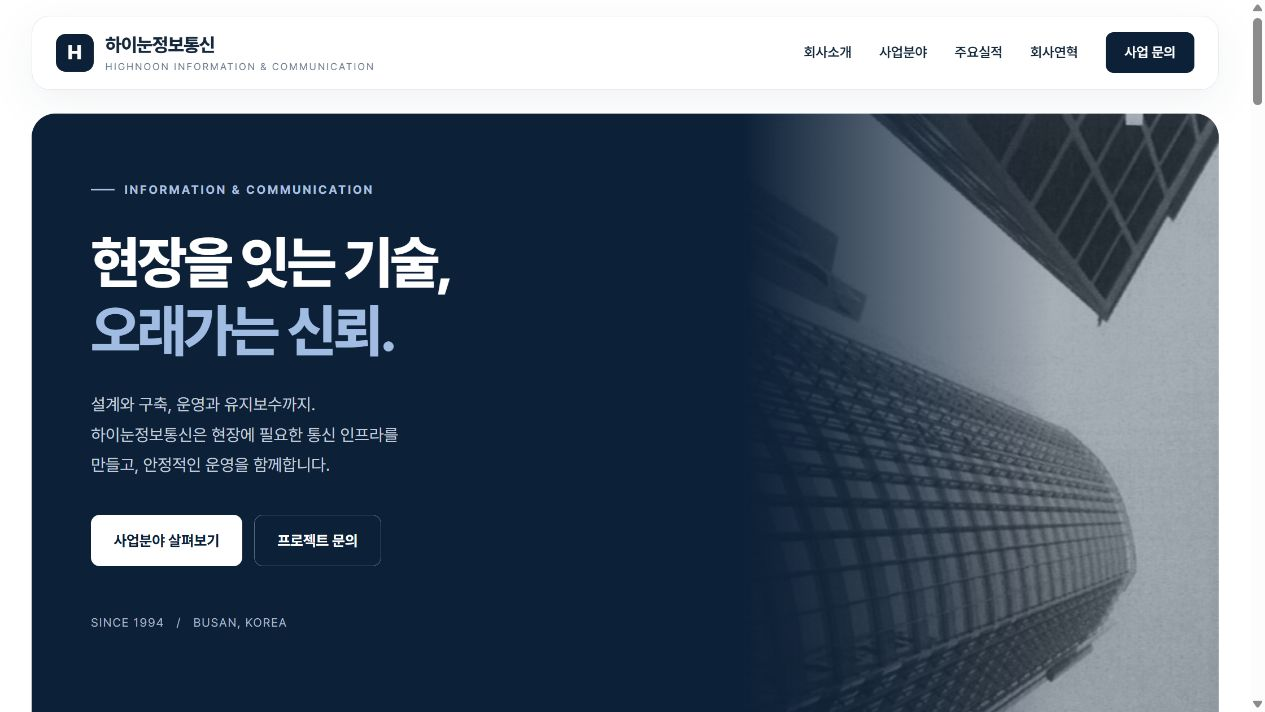
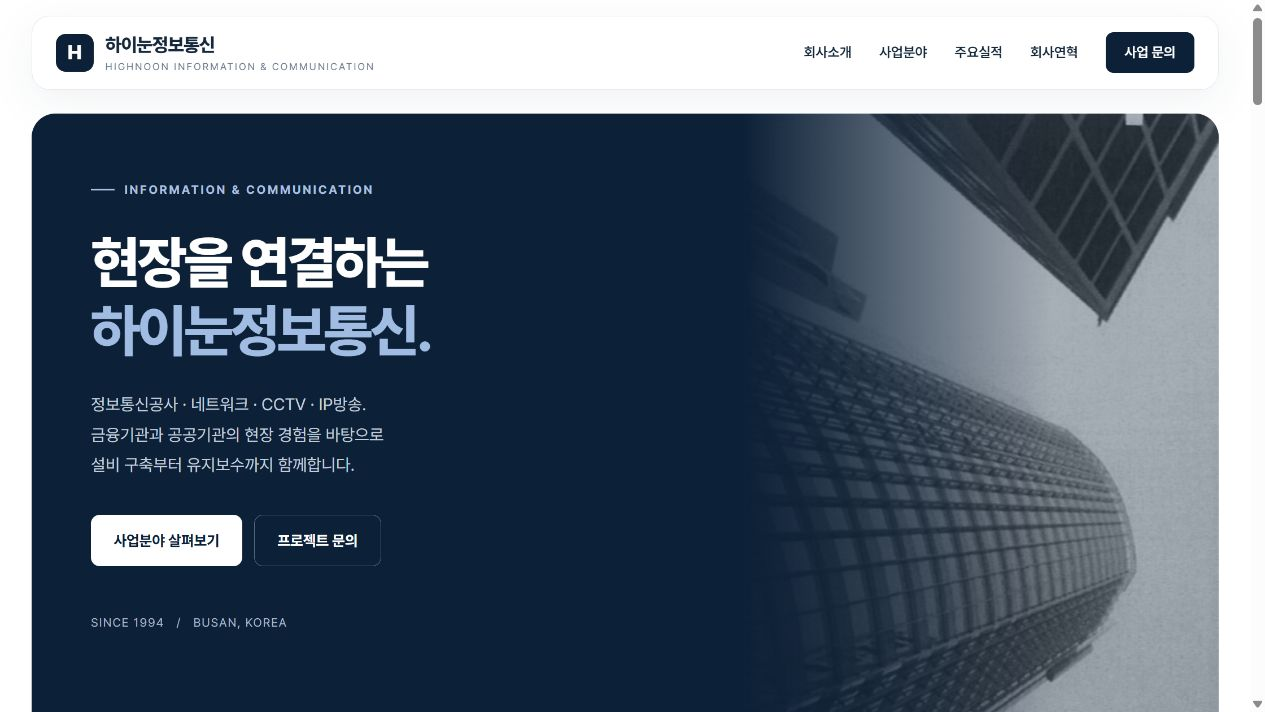
Publish revised Highnoon homepage without external company references

Changed region(s): [[0.0617, 0.309, 0.37, 0.5253], [0.0617, 0.5562, 0.3083, 0.6798]]

diff --git a/index.html b/index.html
@@ -5,7 +5,7 @@
   <meta name="viewport" content="width=device-width, initial-scale=1">
   <meta name="description" content="하이눈정보통신은 정보통신공사, CCTV, 네트워크, IP방송과 통신시설 유지보수를 수행합니다. 부산에 기반을 둔 정보통신 전문기업을 소개합니다.">
   <meta name="theme-color" content="#0c2037">
-  <title>하이눈정보통신 | 현장을 잇는 기술, 오래가는 신뢰</title>
+  <title>하이눈정보통신 | 정보통신공사 · 네트워크 · CCTV</title>
   <link rel="stylesheet" href="https://cdn.jsdelivr.net/gh/orioncactus/pretendard/dist/web/static/pretendard.min.css">
   <script src="https://cdn.tailwindcss.com"></script>
   <script src="https://code.iconify.design/iconify-icon/2.3.0/iconify-icon.min.js"></script>
@@ -33,13 +33,13 @@
   <main id="main">
     <div class="wrap">
       <section class="hero" aria-labelledby="hero-title">
-        <div class="hero-copy"><div class="eyebrow">INFORMATION & COMMUNICATION</div><h1 id="hero-title">현장을 잇는 기술,<br><span>오래가는 신뢰.</span></h1><p class="hero-desc">설계와 구축, 운영과 유지보수까지.<br>하이눈정보통신은 현장에 필요한 통신 인프라를<br>만들고, 안정적인 운영을 함께합니다.</p><div class="hero-actions"><a class="btn btn-light" href="#business">사업분야 살펴보기</a><a class="btn btn-outline" href="#contact">프로젝트 문의</a></div><p class="hero-foot">SINCE 1994 &nbsp; / &nbsp; BUSAN, KOREA</p></div>
-        <div class="hero-visual"><img src="assets/architecture.jpg" alt="회사 지명원에 수록된 건축 이미지" decoding="async" fetchpriority="high"><div class="visual-label"><strong>Built on trust.</strong>기술로 연결하는 일상</div></div>
+        <div class="hero-copy"><div class="eyebrow">INFORMATION & COMMUNICATION</div><h1 id="hero-title">현장을 연결하는<br><span>하이눈정보통신.</span></h1><p class="hero-desc">정보통신공사 · 네트워크 · CCTV · IP방송.<br>금융기관과 공공기관의 현장 경험을 바탕으로<br>설비 구축부터 유지보수까지 함께합니다.</p><div class="hero-actions"><a class="btn btn-light" href="#business">사업분야 살펴보기</a><a class="btn btn-outline" href="#contact">프로젝트 문의</a></div><p class="hero-foot">SINCE 1994 &nbsp; / &nbsp; BUSAN, KOREA</p></div>
+        <div class="hero-visual"><img src="assets/architecture.jpg" alt="회사 지명원에 수록된 건축 이미지" decoding="async" fetchpriority="high"><div class="visual-label"><strong>HIGHNOON ICT</strong>기술로 연결하는 일상</div></div>
       </section>
       <div class="trust" aria-label="기업 핵심 정보"><div class="trust-item"><strong>1994.12</strong><span>기업 설립</span></div><div class="trust-item"><strong>정보통신공사</strong><span>설계 · 시공 · 유지보수</span></div><div class="trust-item"><strong>금융 · 공공</strong><span>기관별 통신시설 구축 경험</span></div><div class="trust-item"><strong>부산 기반</strong><span>현장을 이해하는 기술 파트너</span></div></div>
     </div>
     <section id="about" class="section"><div class="wrap intro-layout">
-      <div class="intro-copy reveal"><div class="eyebrow">ABOUT HIGHNOON</div><h2>연결의 시작부터<br>운영의 매 순간까지.</h2><p>하이눈정보통신은 1994년 설립된 부산 소재 정보통신 기업입니다. 금융기관과 공공기관의 다양한 현장에서 통신시설을 구축하고 유지보수하며 경험을 쌓아왔습니다.</p><p>네트워크와 CCTV, 전화교환기, IP방송 등 현장에 맞는 시스템을 구성하고 지속적인 운영을 지원합니다.</p></div>
+      <div class="intro-copy reveal"><div class="eyebrow">ABOUT HIGHNOON</div><h2>통신시설 구축부터<br>안정적인 운영까지.</h2><p>하이눈정보통신은 1994년 설립된 부산 소재 정보통신 기업입니다. 금융기관과 공공기관의 다양한 현장에서 통신시설을 구축하고 유지보수하며 경험을 쌓아왔습니다.</p><p>네트워크와 CCTV, 전화교환기, IP방송 등 현장에 맞는 시스템을 구성하고 지속적인 운영을 지원합니다.</p></div>
       <div class="reveal"><dl class="company-facts"><div><dt>회사명</dt><dd>하이눈정보통신</dd></div><div><dt>대표</dt><dd>방호영</dd></div><div><dt>설립</dt><dd>1994년 12월</dd></div><div><dt>주요 사업</dt><dd>정보통신공사 · CCTV · IPTV · IP방송<br>전화교환기 · 전산 LAN 시공 및 유지보수</dd></div><div><dt>소재지</dt><dd>부산광역시 연제구 거제대로252번길 32</dd></div></dl><p class="quiet-note">회사 기본정보는 제공된 회사 지명원을 기준으로 작성했습니다.</p></div>
     </div></section>
     <section id="business" class="section business"><div class="wrap">

diff --git a/README.md b/README.md
@@ -1,33 +1,28 @@
-## 홈페이지 바로가기
-
-[하이눈정보통신 홈페이지 열기](https://kclock-boop.github.io/hinoonict/)
-
-# hinoonict
-* [국가직무능력](https://www.ncs.go.kr/index.do)
-
 # 하이눈정보통신 기업소개 홈페이지
 
-회사소개, 사업분야, 주요실적, 회사연혁, 사업 문의를 담은 1차 홈페이지 초안입니다.
+## 홈페이지 바로가기
 
-## 확인 방법
+**[하이눈정보통신 홈페이지 열기](https://kclock-boop.github.io/hinoonict/)**
 
-`index.html`을 브라우저에서 열면 됩니다. `assets` 폴더를 함께 보관하세요.
-PC와 모바일 화면에 대응하며 모바일 메뉴를 제공합니다.
-전화·이메일 버튼은 기기의 전화·메일 프로그램을 연결합니다.
+정보통신공사, 네트워크, CCTV, IP방송과 유지보수 사업을 소개합니다.
+회사소개 · 사업분야 · 주요실적 · 회사연혁 · 문의 안내를 PC와 모바일에서 확인할 수 있습니다.
 
-## 구성
+![하이눈정보통신 홈페이지 미리보기](./홈페이지_미리보기.png)
 
-- `index.html`: 홈페이지
-- `assets/architecture.jpg`: 지명원에 수록된 건축 이미지. 실제 사옥 사진을 의미하지 않습니다.
-- `홈페이지_미리보기.png`: PC 화면 미리보기
-- `제작메모.txt`: 내용 출처와 후속 검토사항
+## 홈페이지 구성
 
-## 참고 및 검토사항
+- [회사소개 및 홈페이지 파일](./index.html)
+- [홈페이지 이미지](./assets/architecture.jpg)
+- [내용 출처와 제작메모](./제작메모.txt)
 
-- 디자인 참고: [삼목기업 홈페이지 저장소](https://github.com/kclock-boop/sammok)
-- 회사정보 및 실적은 제공된 회사 지명원을 기준으로 작성했습니다.
-- 공식 로고 대신 초안용 H 문자 표식을 사용했습니다.
-- 공개 전 회사정보의 최신 여부, 실적 공개 가능 여부, 이미지 사용권을 확인해야 합니다.
-- 원본 PDF와 개인별 훈련 정보는 저장소에 포함하지 않습니다.
+## 자료 기준
 
-작성일: 2026-10-02
+회사 기본정보, 연락처, 연혁과 실적은 제공된 회사 지명원을 기준으로 작성했습니다.
+지명원에 수록된 건축 이미지는 실제 회사 사옥 사진을 의미하지 않습니다.
+H 문자 표식은 공식 로고를 대신한 임시 표식입니다.
+원본 PDF와 개인별 훈련 정보는 저장소에 포함하지 않습니다.
+
+수정일: 2026-10-02
+## 관련 링크
+
+- [국가직무능력표준](https://www.ncs.go.kr/index.do)
